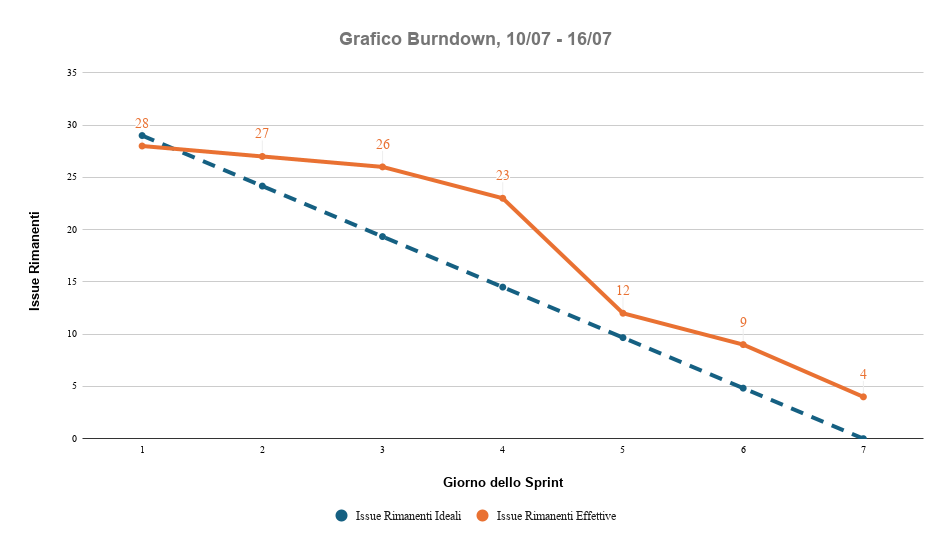
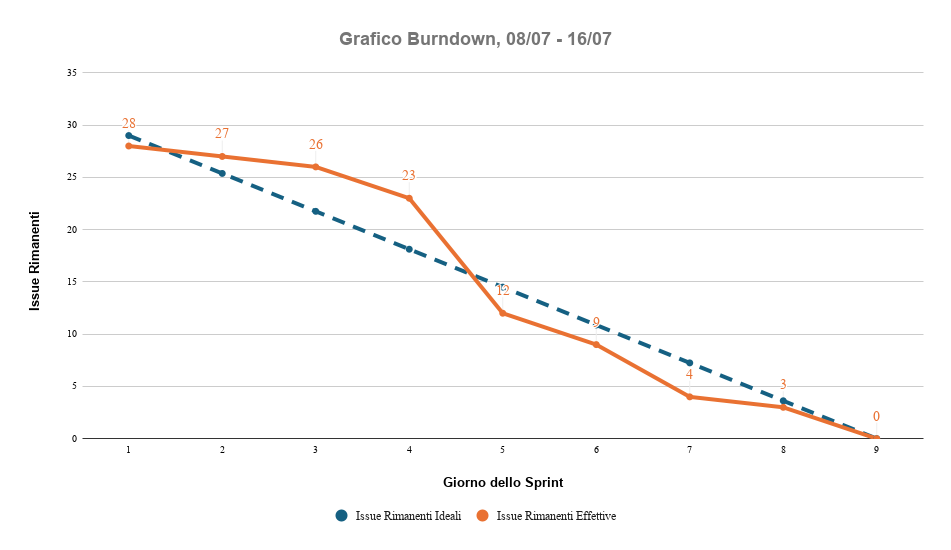
correzioni di verifica sprint 8 e 9

diff --git a/Documentazione/LaTeX/Piano di Progetto/Piano di Progetto.tex b/Documentazione/LaTeX/Piano di Progetto/Piano di Progetto.tex
@@ -72,7 +72,7 @@
         \renewcommand{\arraystretch}{1.5}
         \begin{tabularx}{\textwidth}{|l|X|}
             \hline
-            \textbf{Versione} & \textit{1.1} \\ \hline
+            \textbf{Versione} & \textit{0.11.0} \\ \hline
     
             \textbf{Uso} & \textit{Esterno} \\ \hline
             \textbf{Destinatari} & \textit{Prof. Tullio Vardanega, Prof. Riccardo Cardin} \\ \hline
@@ -101,17 +101,17 @@
     \begin{tabularx}{\textwidth}{|c|c|X|l|l|}
         \hline
         \textbf{Ver.} & \textbf{Data} & \textbf{Descrizione} & \textbf{Autore} & \textbf{Verificatore} \\ \hline
-        1.1 & 2026/07/17 & Scrittura \textit{consuntivo} \textit{sprint} 8 e \textit{preventivo} \textit{sprint} 9 & Sara Ristovic & Da definire \\ \hline
-        1.0 & 2026/07/09 & Scrittura \textit{consuntivo} \textit{sprint} 7 e \textit{preventivo} \textit{sprint} 8 & Sara Ristovic & Da definire \\ \hline
-        0.9 & 2026/07/02 & Scrittura \textit{consuntivo} \textit{sprint} 6 e \textit{preventivo} \textit{sprint} 7 & Samuele Bertin & Sara Ristovic \\ \hline
-        0.8 & 2026/06/18 & Scrittura \textit{consuntivo} \textit{sprint} 5 e \textit{preventivo} \textit{sprint} 6 & Samuele Bertin & Sara Ristovic \\ \hline
-        0.7 & 2026/05/29 & Scrittura \textit{consuntivo} \textit{sprint} 4 e \textit{preventivo} \textit{sprint} 5; Descritto il nuovo rischio RO3 & Sara Ristovic & Edoardo Granziero \\ \hline
-        0.6 & 2026/05/21 & Scrittura capitolo 3: Pianificazione & Edoardo Granziero & Samuele Bertin \\ \hline
-        0.5 & 2026/05/19 & Scrittura \textit{preventivo} \textit{sprint} 4, scrittura \textit{consuntivo} \textit{sprint} 3 & Edoardo Granziero & Samuele Bertin \\ \hline
-        0.4 & 2026/05/06 & Scrittura \textit{preventivo} \textit{sprint} 3, scrittura \textit{consuntivo} \textit{sprint} 2, grafico burndown & Samuele Bertin & Dario Pirrone \\ \hline
-        0.3 & 2026/04/27 & Stesura capitolo 2: Analisi dei Rischi & Dario Pirrone & Marco Barbiero \\ \hline
-        0.2 & 2026/04/22 & Scrittura \textit{preventivo} \textit{sprint} 1 e \textit{sprint} 2, scrittura \textit{consuntivo} \textit{sprint} 1 & Dario Pirrone & Marco Barbiero \\ \hline
-        0.1 & 2026/04/12 & Scrittura della sezione ``Introduzione'' & Sara Ristovic & Marco Barbiero \\ \hline
+        0.11.0 & 2026/07/17 & Scrittura \textit{consuntivo} \textit{sprint} 8 e \textit{preventivo} \textit{sprint} 9 & Marco Barbiero & Dario Pirrone \\ \hline
+        0.10.0 & 2026/07/09 & Scrittura \textit{consuntivo} \textit{sprint} 7 e \textit{preventivo} \textit{sprint} 8 & Sara Ristovic & Dario Pirrone \\ \hline
+        0.9.0 & 2026/07/02 & Scrittura \textit{consuntivo} \textit{sprint} 6 e \textit{preventivo} \textit{sprint} 7 & Samuele Bertin & Sara Ristovic \\ \hline
+        0.8.0 & 2026/06/18 & Scrittura \textit{consuntivo} \textit{sprint} 5 e \textit{preventivo} \textit{sprint} 6 & Samuele Bertin & Sara Ristovic \\ \hline
+        0.7.0 & 2026/05/29 & Scrittura \textit{consuntivo} \textit{sprint} 4 e \textit{preventivo} \textit{sprint} 5; Descritto il nuovo rischio RO3 & Sara Ristovic & Edoardo Granziero \\ \hline
+        0.6.0 & 2026/05/21 & Scrittura capitolo 3: Pianificazione & Edoardo Granziero & Samuele Bertin \\ \hline
+        0.5.0 & 2026/05/19 & Scrittura \textit{preventivo} \textit{sprint} 4, scrittura \textit{consuntivo} \textit{sprint} 3 & Edoardo Granziero & Samuele Bertin \\ \hline
+        0.4.0 & 2026/05/06 & Scrittura \textit{preventivo} \textit{sprint} 3, scrittura \textit{consuntivo} \textit{sprint} 2, grafico burndown & Samuele Bertin & Dario Pirrone \\ \hline
+        0.3.0 & 2026/04/27 & Stesura capitolo 2: Analisi dei Rischi & Dario Pirrone & Marco Barbiero \\ \hline
+        0.2.0 & 2026/04/22 & Scrittura \textit{preventivo} \textit{sprint} 1 e \textit{sprint} 2, scrittura \textit{consuntivo} \textit{sprint} 1 & Dario Pirrone & Marco Barbiero \\ \hline
+        0.1.0 & 2026/04/12 & Scrittura della sezione ``Introduzione'' & Sara Ristovic & Marco Barbiero \\ \hline
         0.0.1 & 2026/04/11 & Strutturazione del documento & Dario Pirrone & Marco Barbiero \\ \hline
     \end{tabularx}
 \end{table}
@@ -1873,12 +1873,12 @@ Le risorse economiche utilizzate durante lo \textit{sprint} sono:
     \caption{\textit{Consuntivo} economico - \textit{sprint} 7}
 \end{table}
 
-%\begin{figure}[H]
-%   \centering
-%    \includegraphics[width=0.9\textwidth]{grafici/burndown_sprint7.png}
-%    \caption{\textit{Grafico Burndown} - \textit{sprint} 7}
-%    \label{fig:burndown-sprint7}
-%\end{figure}
+\begin{figure}[H]
+  \centering
+    \includegraphics[width=0.9\textwidth]{grafici/burndown_sprint7.png}
+    \caption{\textit{Grafico Burndown} - \textit{sprint} 7}
+    \label{fig:burndown-sprint7}
+\end{figure}
 
 \paragraph{Analisi dei rischi occorsi}
 \begin{itemize}
@@ -1930,7 +1930,8 @@ I ruoli assegnati sono: \textbf{Responsabile}, \textbf{Amministratore}, \textbf{
     \renewcommand{\arraystretch}{1.3}
     \begin{tabularx}{0.9\textwidth}{|X|c|c|c|c|c|c|c|}
         \hline
-        \textbf{\textit{Sprint} 8} & \textbf{RE} & \textbf{AM} & \textbf{AN} &
+        \textbf{\textit{Sprint} 8} & \multicolumn{6}{|c|}{\textbf{Ruolo}} & \\ \hline
+        \textbf{Membro} & \textbf{RE} & \textbf{AM} & \textbf{AN} &
         \textbf{PG} & \textbf{PR} & \textbf{VE} & \textbf{Totale} \\ \hline
         Andrea Fistarol & & & &  & & 6 & \textbf{6} \\ \hline
         Dario Pirrone & & 4 & & & & & \textbf{4} \\ \hline
@@ -1938,8 +1939,8 @@ I ruoli assegnati sono: \textbf{Responsabile}, \textbf{Amministratore}, \textbf{
         Marco Barbiero & & & & & 10 & & \textbf{10} \\ \hline
         Samuele Bertin & & & & & 10 & & \textbf{10} \\ \hline
         Sara Ristovic & 5 & & & & & & \textbf{5} \\ \hline
-        \textbf{Ore totali per ruolo} & \textbf{5} & \textbf{5} &
-        \textbf{0} & \textbf{0} & \textbf{20} & \textbf{12} & \textbf{42}\\ \hline
+        \textbf{Ore totali per ruolo} & \textbf{5} & \textbf{4} &
+        \textbf{0} & \textbf{0} & \textbf{20} & \textbf{12} & \textbf{41}\\ \hline
     \end{tabularx}
     \caption{\textit{Preventivo} orario - \textit{sprint} 8}
 \end{table}
@@ -1961,18 +1962,69 @@ Le risorse economiche previste per lo \textit{sprint} sono:
     \caption{\textit{Preventivo} economico - \textit{sprint} 8}
 \end{table}
 
-\paragraph{Analisi dei rischi occorsi}
+\paragraph{\textit{Consuntivo}}
+È risultato un consumo orario maggiore di quello preventivato inizialmente
+per l'\textbf{Amministratore}, mentre per i \textbf{Progettisti} e \textbf{Verificatori} il consumo complessivo risulta ugale ma con una ripartizione oraria per membro diversa da quanto preventivato.
+
+\begin{table}[H]
+    \centering
+    \renewcommand{\arraystretch}{1.3}
+    \begin{tabularx}{0.95\textwidth}{|X|c|c|c|c|c|c|c|}
+        \hline
+        \textbf{\textit{Sprint} 8} & \multicolumn{6}{|c|}{\textbf{Ruolo}} & \\ \hline
+        \textbf{Membro} & \textbf{RE} & \textbf{AM} & \textbf{AN} &
+        \textbf{PG} & \textbf{PR} & \textbf{VE} & \textbf{Totale} \\ \hline
+        Andrea Fistarol & & & &  & & 4 (-2) & \textbf{4} \\ \hline
+        Dario Pirrone & & 5 (+1) & & & & & \textbf{5} \\ \hline
+        Edoardo Granziero & & & & & & 8 (+2) & \textbf{8} \\ \hline
+        Marco Barbiero & & & & & 15 (+5) & & \textbf{15} \\ \hline
+        Samuele Bertin & & & & & 5 (-5) & & \textbf{5} \\ \hline
+        Sara Ristovic & 5 & & & & & & \textbf{5} \\ \hline
+        \textbf{Ore totali per ruolo} & \textbf{5} & \textbf{5} &
+        \textbf{0} & \textbf{0} & \textbf{20} & \textbf{12} & \textbf{42 (+1)}\\ \hline
+    \end{tabularx}
+    \caption{\textit{Consuntivo} orario - \textit{sprint} 8}
+\end{table}
+
+Le risorse economiche utilizzate durante lo \textit{sprint} sono:
+
+\begin{table}[H]
+    \centerline{
+        \centering
+        \renewcommand{\arraystretch}{1.3}
+        \begin{tabularx}{1.09\textwidth}{|X|c|c|c|c|c|c|c|}
+            \hline
+            \textbf{\textit{Sprint} 8} & \textbf{RE} & \textbf{AM} & \textbf{AN} &
+            \textbf{PG} & \textbf{PR} & \textbf{VE} & \textbf{Totale} \\ \hline
+  
+            \textbf{Costo orario} & \EUR{30} & \EUR{20} & \EUR{25} & \EUR{25} & \EUR{15}
+            & \EUR{15} & / \\ \hline
+            \textbf{Costo totale} & \EUR{150} & \EUR{100} & \EUR{0} & \EUR{0} & \EUR{300} & \EUR{180} & \textbf{\EUR{730}} \\ \hline
+            \textbf{Saldo a fine \textit{sprint}} & \textbf{\EUR{630}} & \textbf{\EUR{220}} & \textbf{\EUR{-150}} & \textbf{\EUR{2.225}} & \textbf{\EUR{1.770}} & \textbf{\EUR{1.635}} & \textbf{\EUR{6.330}}\\ \hline
+        \end{tabularx}
+    }
+    \caption{\textit{Consuntivo} economico - \textit{sprint} 8}
+\end{table}
+
+\begin{figure}[H]
+   \centering
+    \includegraphics[width=0.9\textwidth]{grafici/burndown_sprint8.png}
+    \caption{\textit{Grafico Burndown} - \textit{sprint} 8}
+    \label{fig:burndown-sprint8}
+\end{figure}
+
+\paragraph{Analisi dei rischi occorsi} Durante lo svolgimento delle attività di verifica in parallelo da parte di molteplici membri, il gruppo ha riscontrato il rischio di Comunicazione Interna Inefficace \textbf{(RO2)} e di Bassa Qualità/Omissione delle Verifiche \textbf{(RI2)}. Nello specifico, la mancanza di una registrazione puntuale di chi stesse controllando quale sezione dello stesso documento ha causato incertezze sulla copertura dei controlli, rischiando di generare sovrapposizioni o, al contrario, di lasciare sezioni non verificate.
+
+
+\paragraph{\textit{Retrospettiva}} Lo \textit{sprint} si è concluso con il completamento di tutti i compiti pianificati, stando in tempi e budget simili a quanto preventivato, mostrando la solidità del approccio avuto, d'altra parte si sono presentate delle nuove problematiche che che porteranno dei cambiamenti nei futuri \textit{sprint}.
+
+\paragraph{Cosa ha funzionato:}
 \begin{itemize}
-     \item Durante lo svolgimento delle attività di verifica in parallelo da parte di molteplici membri, il gruppo ha riscontrato il rischio di Comunicazione Interna Inefficace \textbf{RO2} e di Bassa Qualità/Omissione delle Verifiche \textbf{RI2}. Nello specifico, la mancanza di una registrazione puntuale di chi stesse controllando quale sezione dello stesso documento ha causato incertezze sulla copertura dei controlli, rischiando di generare sovrapposizioni o, al contrario, di lasciare sezioni non verificate.
+    \item \textbf{\textit{Sprint} di durata 9 giorni:} Il gruppo è soddisfatto della durata ridotta dello \textit{sprint}, in quanto consente un'organizzazione più continuativa del lavoro, migliore comunicazione e maggiore efficienza.
 \end{itemize}
 
-\paragraph{\textit{Retrospettiva}: cosa ha funzionato}
-\begin{itemize}
-    \item \textbf{\textit{Sprint} di durata 7 giorni:} Il gruppo è soddisfatto della durata ridotta dello \textit{sprint}, in quanto consente un'organizzazione più continuativa del lavoro, migliore comunicazione e maggiore efficienza.
-\end{itemize}
 
-
-\paragraph{Migliorie per lo \textit{sprint} 9}
+\paragraph{Migliorie per lo \textit{sprint} 9:}
 \begin{itemize}
     \item \textbf{Tracciamento formalizzato delle verifiche e responsabilità individuali:} Per snellire il lavoro in parallelo e garantire la completa tracciabilità delle revisioni, si è stabilito l'obbligo per ciascun verificatore di inserire il proprio nome nell'apposita tabella di versionamento in corrispondenza delle sezioni controllate. Questa modifica operativa permette di:
     \begin{itemize}
@@ -1982,12 +2034,7 @@ Le risorse economiche previste per lo \textit{sprint} sono:
     \end{itemize}
 \end{itemize}
 
-\begin{figure}[H]
-   \centering
-    \includegraphics[width=0.9\textwidth]{grafici/burndown_sprint8.png}
-    \caption{\textit{Grafico Burndown} - \textit{sprint} 8}
-    \label{fig:burndown-sprint8}
-\end{figure}
+
 
 \subsubsection{\textit{Sprint} 9: 17/07/2026 - 22/07/2026}
 
@@ -1996,8 +2043,9 @@ Le risorse economiche previste per lo \textit{sprint} sono:
 Le attività previste per il nono \textit{sprint}, ordinate in base alla priorità, sono le seguenti:
 
 \begin{itemize}
-    \item Perfezionamento della documentazione
-    \item Preparazione della presentazione per l'\textbf{RTB} e aggiornamento del sito web
+    \item Verifica complessiva e adeguamento dei vari documenti in sviluppo, con un controllo dei collegamenti tra documenti e con i termini del \textbf{Glossario}, oltre ad un controllo contenutisito per alcune sezioni;
+    \item Preparazione della presentazione per l'\textbf{RTB}: creare le slide e di conseguenza decidere l'ordine di esposizione dei vari contenuti;
+    \item Aggionramento del sito e dei vari PDF dei documenti esposti su di esso, portando il documento di \textbf{AdR} alla versione 1.0.0.
 \end{itemize}
 
 \paragraph{\textit{Preventivo} orario ed economico}
@@ -2008,7 +2056,8 @@ I ruoli assegnati sono: \textbf{Responsabile}, \textbf{Amministratore}, \textbf{
     \renewcommand{\arraystretch}{1.3}
     \begin{tabularx}{0.9\textwidth}{|X|c|c|c|c|c|c|c|}
         \hline
-        \textbf{\textit{Sprint} 9} & \textbf{RE} & \textbf{AM} & \textbf{AN} & \textbf{PG} & \textbf{PR} & \textbf{VE} & \textbf{Totale} \\ \hline
+        \textbf{\textit{Sprint} 9} & \multicolumn{6}{|c|}{\textbf{Ruolo}} & \\ \hline
+        \textbf{Membro} & \textbf{RE} & \textbf{AM} & \textbf{AN} & \textbf{PG} & \textbf{PR} & \textbf{VE} & \textbf{Totale} \\ \hline
         Andrea Fistarol  & & & & & & 0 & \textbf{} \\ \hline
         Dario Pirrone    & & & & & &   & \textbf{} \\ \hline
         Edoardo Granziero & & & & & & 0 & \textbf{} \\ \hline